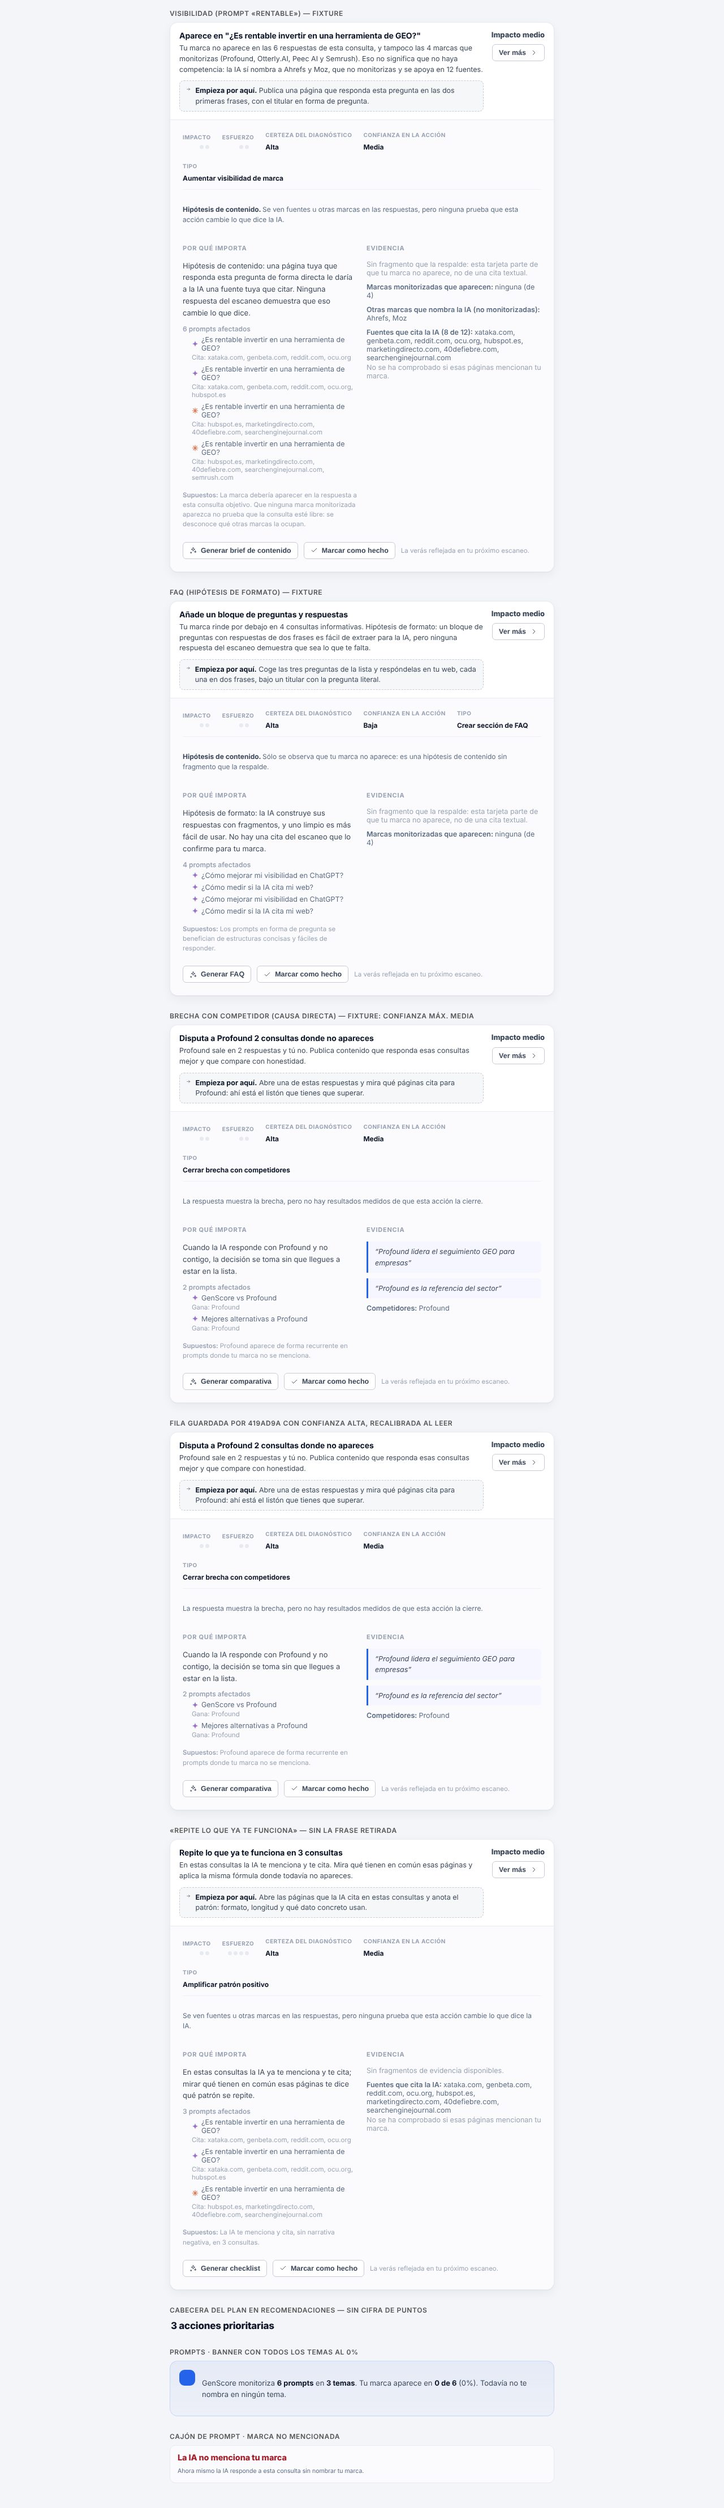
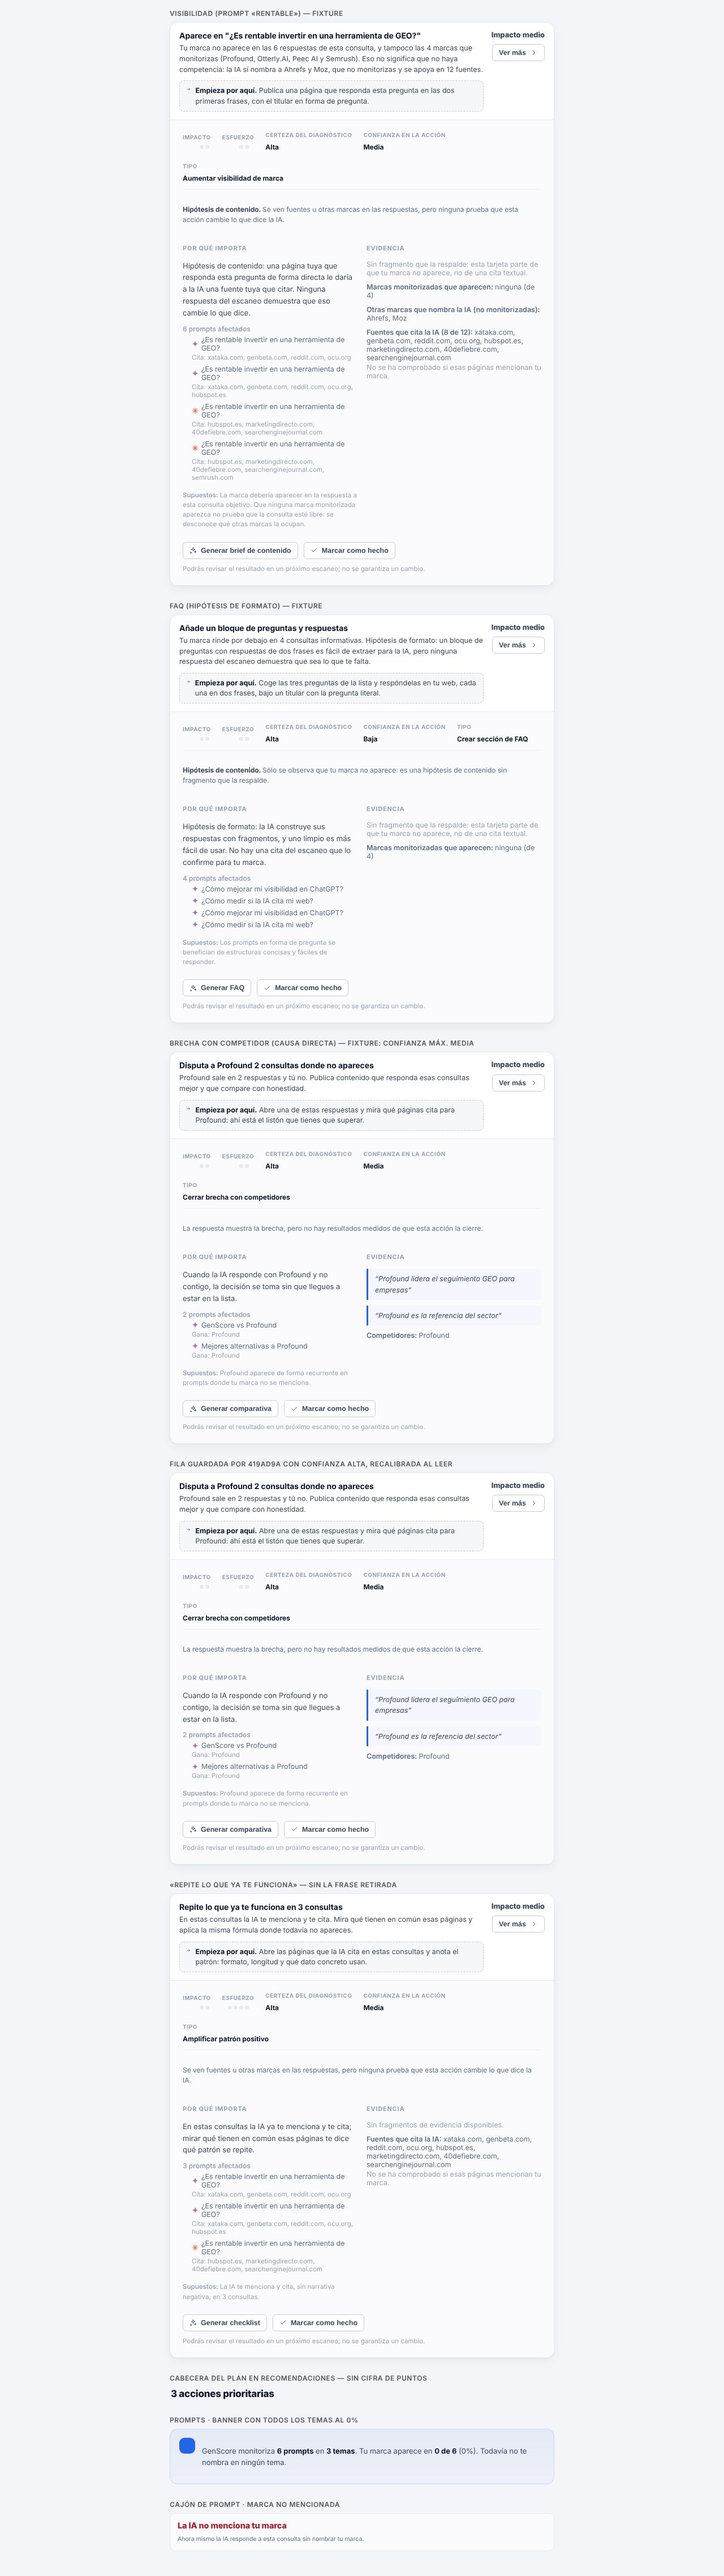
UNPROVEN-CLAIMS-1: regenerate affected fixture evidence; README images as plain markdown
Claude-Session: https://claude.ai/code/session_01QUQshxqfN3qFT8Wz4MrDfS

diff --git a/docs/evidence/unproven-claims-1/README.md b/docs/evidence/unproven-claims-1/README.md
@@ -6,9 +6,9 @@ de clientes ni PII; el contenido es la fixture sintética del primer escaneo de
 genscore.es (`lib/recommendations/fixtures/genscore-first-scan.ts`, construida a
 mano, sin leer ninguna fila de producción).
 
-**Código renderizado:** commit `0cc2692` (`0cc26929ce1322b597e7bc019bb293594121db0d`).
+**Código renderizado:** commit `c753d51` (`c753d51ebab91060cf1931cb4f1db3f908de5ff9`).
 El head del PR con esta carpeta es el commit que la añade (docs-only sobre
-`0cc2692`); el informe del PR cita el SHA exacto.
+`c753d51`); el informe del PR cita el SHA exacto.
 
 ## Cómo se generaron
 Los componentes reales (`OpportunitiesCard`, `RecCard`, el texto de los helpers
@@ -52,11 +52,37 @@ palabra de 80 caracteres sin espacios no puede envolver (igual que antes).
 Con «+N pt» (antes de §236) a 390 px el título medía 249 px; con «Impacto …»
 y sin este cambio, 209–223 px.
 
-| Antes (390) | Después (390) |
-|---|---|
-| `oportunidades-css-antes-390.jpg` | `oportunidades-css-despues-390.jpg` |
-| `oportunidades-css-antes-768.jpg` | `oportunidades-css-despues-768.jpg` |
-| `oportunidades-css-antes-1280.jpg` | `oportunidades-css-despues-1280.jpg` |
+### Antes (izquierda de cada par) y después, 390 / 768 / 1280 px
+
+Antes 390 px:
+
+![Antes, 390 px (fixture)](oportunidades-css-antes-390.jpg)
+
+Después 390 px:
+
+![Después, 390 px (fixture)](oportunidades-css-despues-390.jpg)
+
+Antes 768 px:
+
+![Antes, 768 px (fixture)](oportunidades-css-antes-768.jpg)
+
+Después 768 px:
+
+![Después, 768 px (fixture)](oportunidades-css-despues-768.jpg)
+
+Antes 1280 px:
+
+![Antes, 1280 px (fixture)](oportunidades-css-antes-1280.jpg)
+
+Después 1280 px:
+
+![Después, 1280 px (fixture)](oportunidades-css-despues-1280.jpg)
+
+## Copy causal del detalle (regenera solo las capturas afectadas)
+`recomendaciones-y-prompts-*` y `flujo-oportunidades-a-detalle-390` se
+regeneraron tras sustituir «Entrar en las webs que los motores ya citan es la
+vía más corta…» y «La verás reflejada en tu próximo escaneo» (log §236).
+`oportunidades-*` no cambian con ese copy.
 
 ## Qué NO prueba esto
 UI real en el preview, interacción real, datos reales ni el piloto de usuario.
